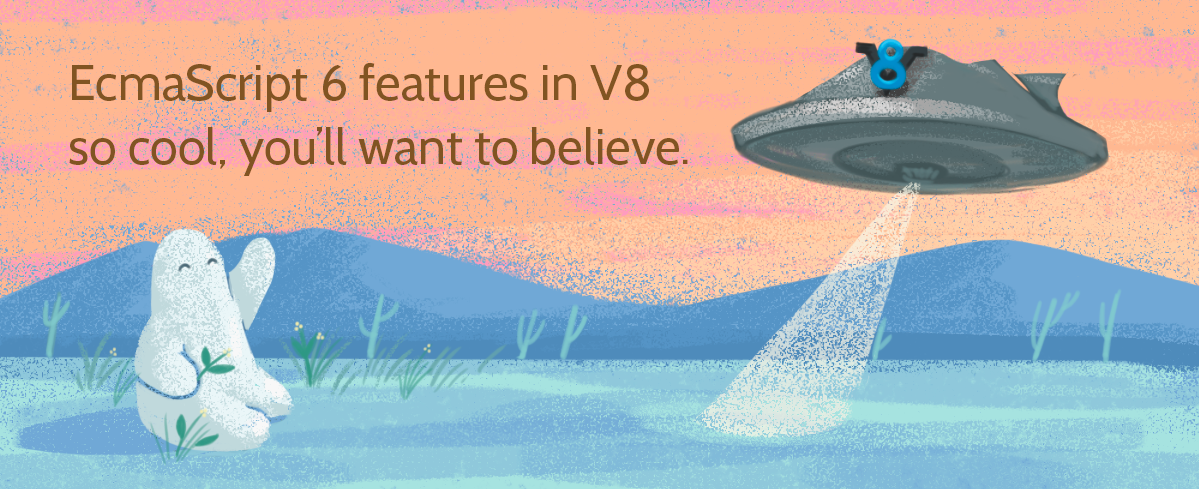
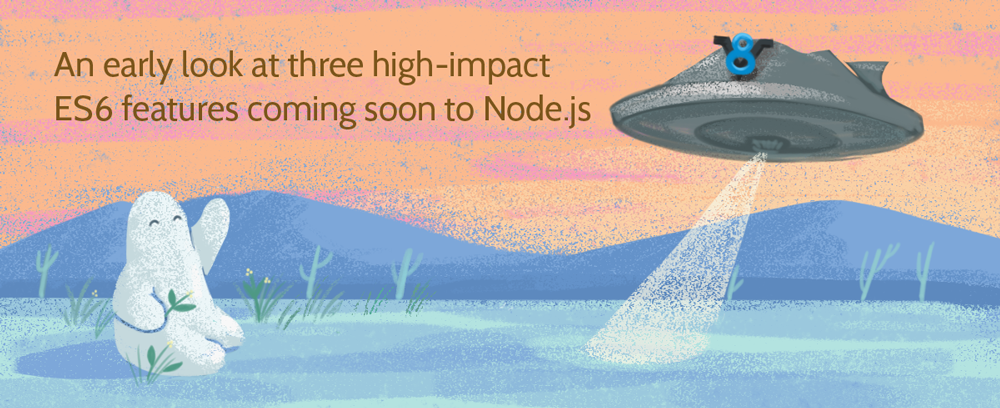
Updated ES6 post to final title

diff --git a/_posts/2016-02-22-v849-es6-features.md b/_posts/2016-02-22-v849-es6-features.md
@@ -1,6 +1,6 @@
 ---
 layout: post
-title: "An early look at game-changing ES6 features coming soon to Node.js"
+title: "An early look at high-impact ES6 features coming soon to Node.js"
 author: Ryan Paul
 author_github: segphault
 hero_image: 2016-02-22-v849-es6-features-banner.png
